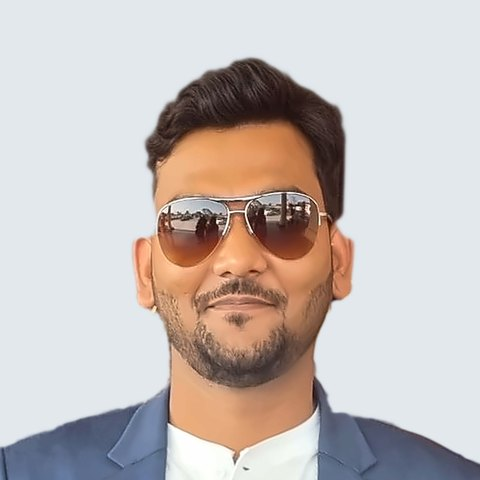
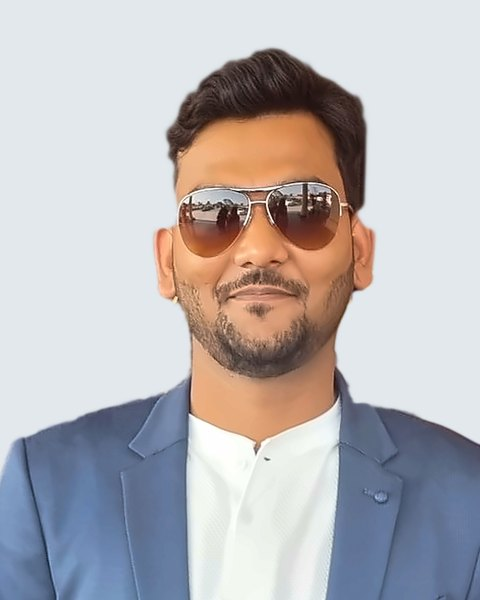
Show portrait beside the intro

diff --git a/src/styles.css b/src/styles.css
@@ -65,9 +65,10 @@ nav a[aria-current="page"] { color: var(--heading); border-bottom-color: var(--a
 main.col { padding-top: 56px; padding-bottom: 40px; }
 section { margin-top: 56px; }
 .intro { margin-top: 0; }
-.intro-head { display: flex; align-items: center; gap: 28px; margin-bottom: 28px; }
-.intro-head .motto { margin-bottom: 0; }
-.portrait { width: 120px; height: 120px; flex: none; border-radius: 50%; object-fit: cover; border: 3px solid var(--bg); box-shadow: 0 0 0 1px var(--line), 0 6px 20px rgba(0,0,0,.08); }
+.intro-row { display: flex; align-items: flex-start; gap: 36px; margin-bottom: 4px; }
+.intro-text { flex: 1 1 auto; min-width: 0; }
+.portrait { flex: 0 0 210px; margin: 6px 0 0; }
+.portrait img { display: block; width: 100%; height: auto; aspect-ratio: 4 / 5; object-fit: cover; border-radius: 16px; border: 1px solid var(--line); box-shadow: 0 10px 30px rgba(0, 0, 0, .08); }
 .intro h1 { font: 600 clamp(34px, 6vw, 44px)/1.15 var(--serif); letter-spacing: -0.01em; }
 .motto { font: italic 500 clamp(20px, 3.2vw, 24px)/1.4 var(--serif); color: var(--accent); margin: 10px 0 28px; }
 .facts { list-style: none; padding: 16px 0 0; margin: 28px 0 0; border-top: 1px solid var(--line); display: flex; flex-wrap: wrap; gap: 6px 28px; font-size: 15px; color: var(--muted); }
@@ -161,7 +162,7 @@ details p { margin-bottom: .7em; }
   nav a { display: inline-block; padding: 12px 0 10px; }
   main.col { padding-top: 36px; }
   .entry { grid-template-columns: minmax(0, 1fr); gap: 2px; }
-  .intro-head { flex-direction: column; align-items: flex-start; gap: 18px; }
-  .portrait { width: 96px; height: 96px; }
+  .intro-row { flex-direction: column-reverse; gap: 20px; }
+  .portrait { flex: none; width: 150px; margin: 0; }
   .skills div { grid-template-columns: minmax(0, 1fr); gap: 2px; }
 }
